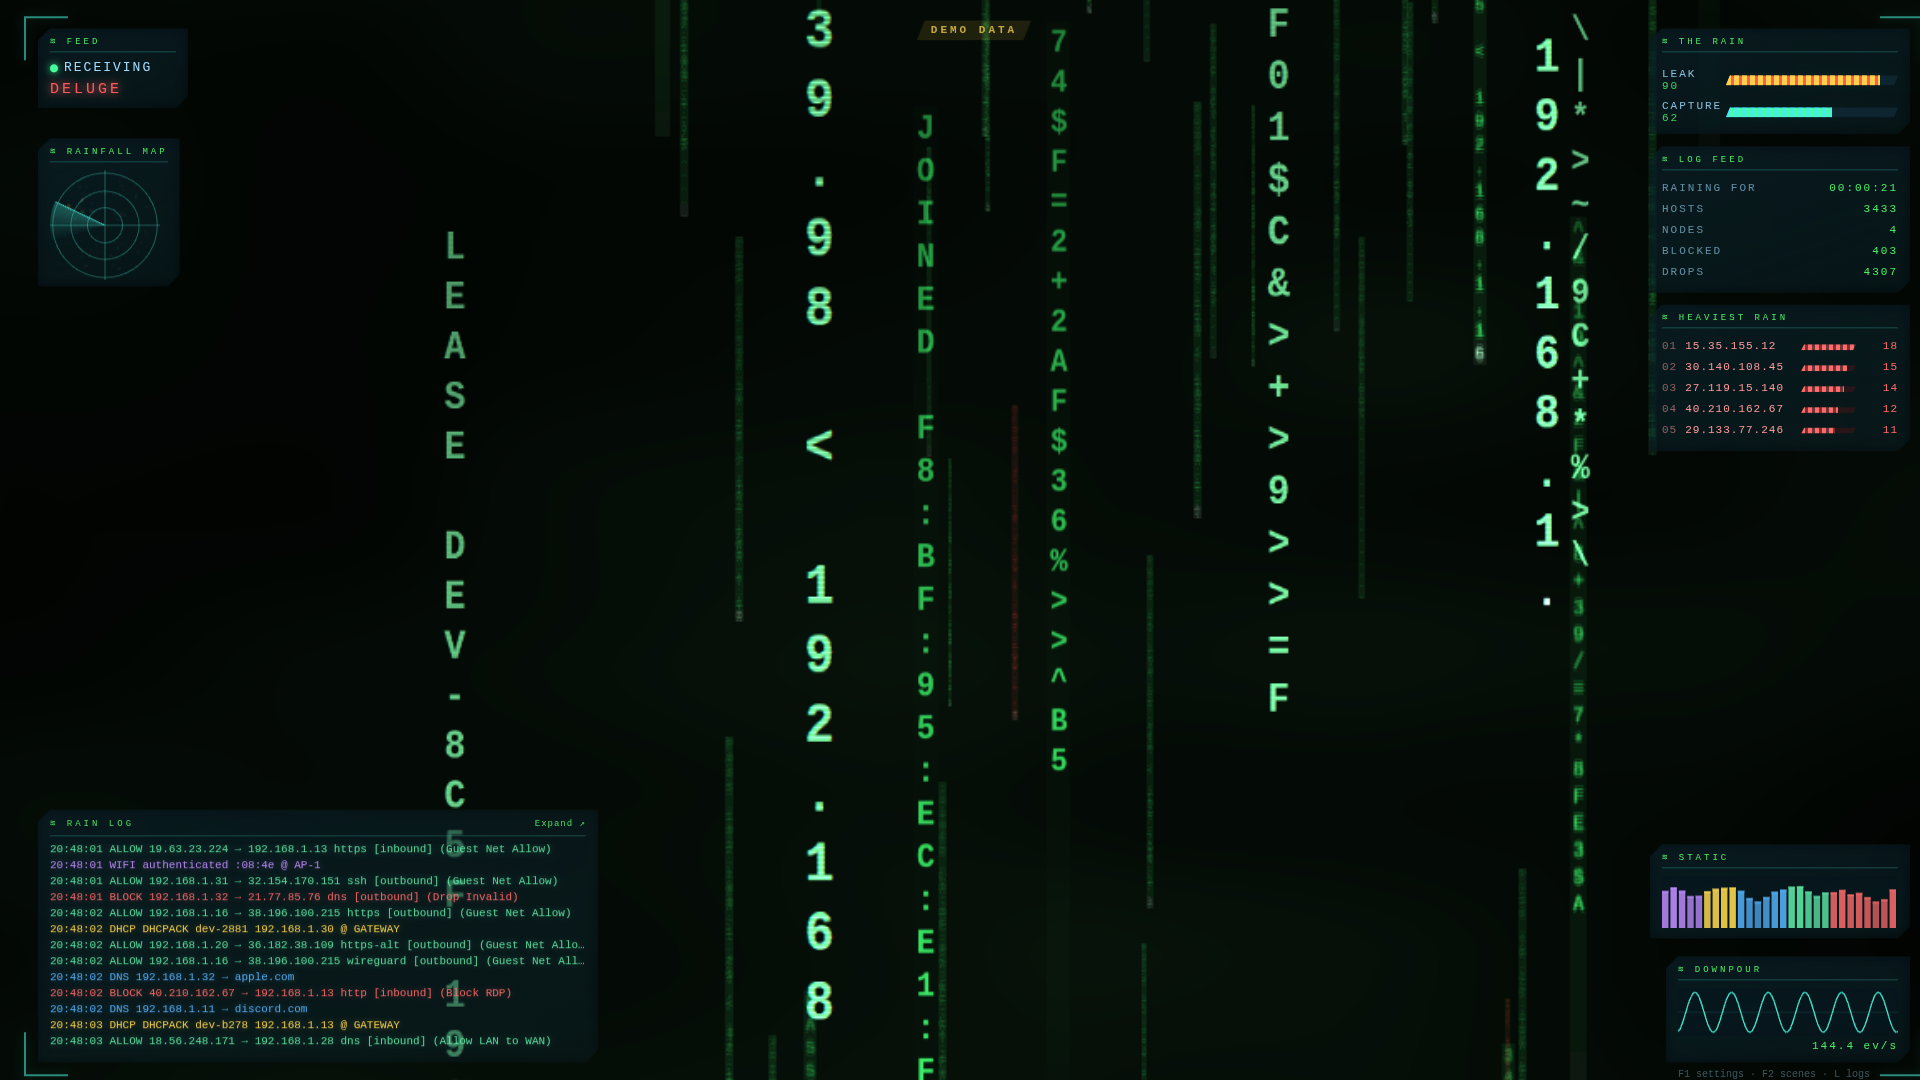
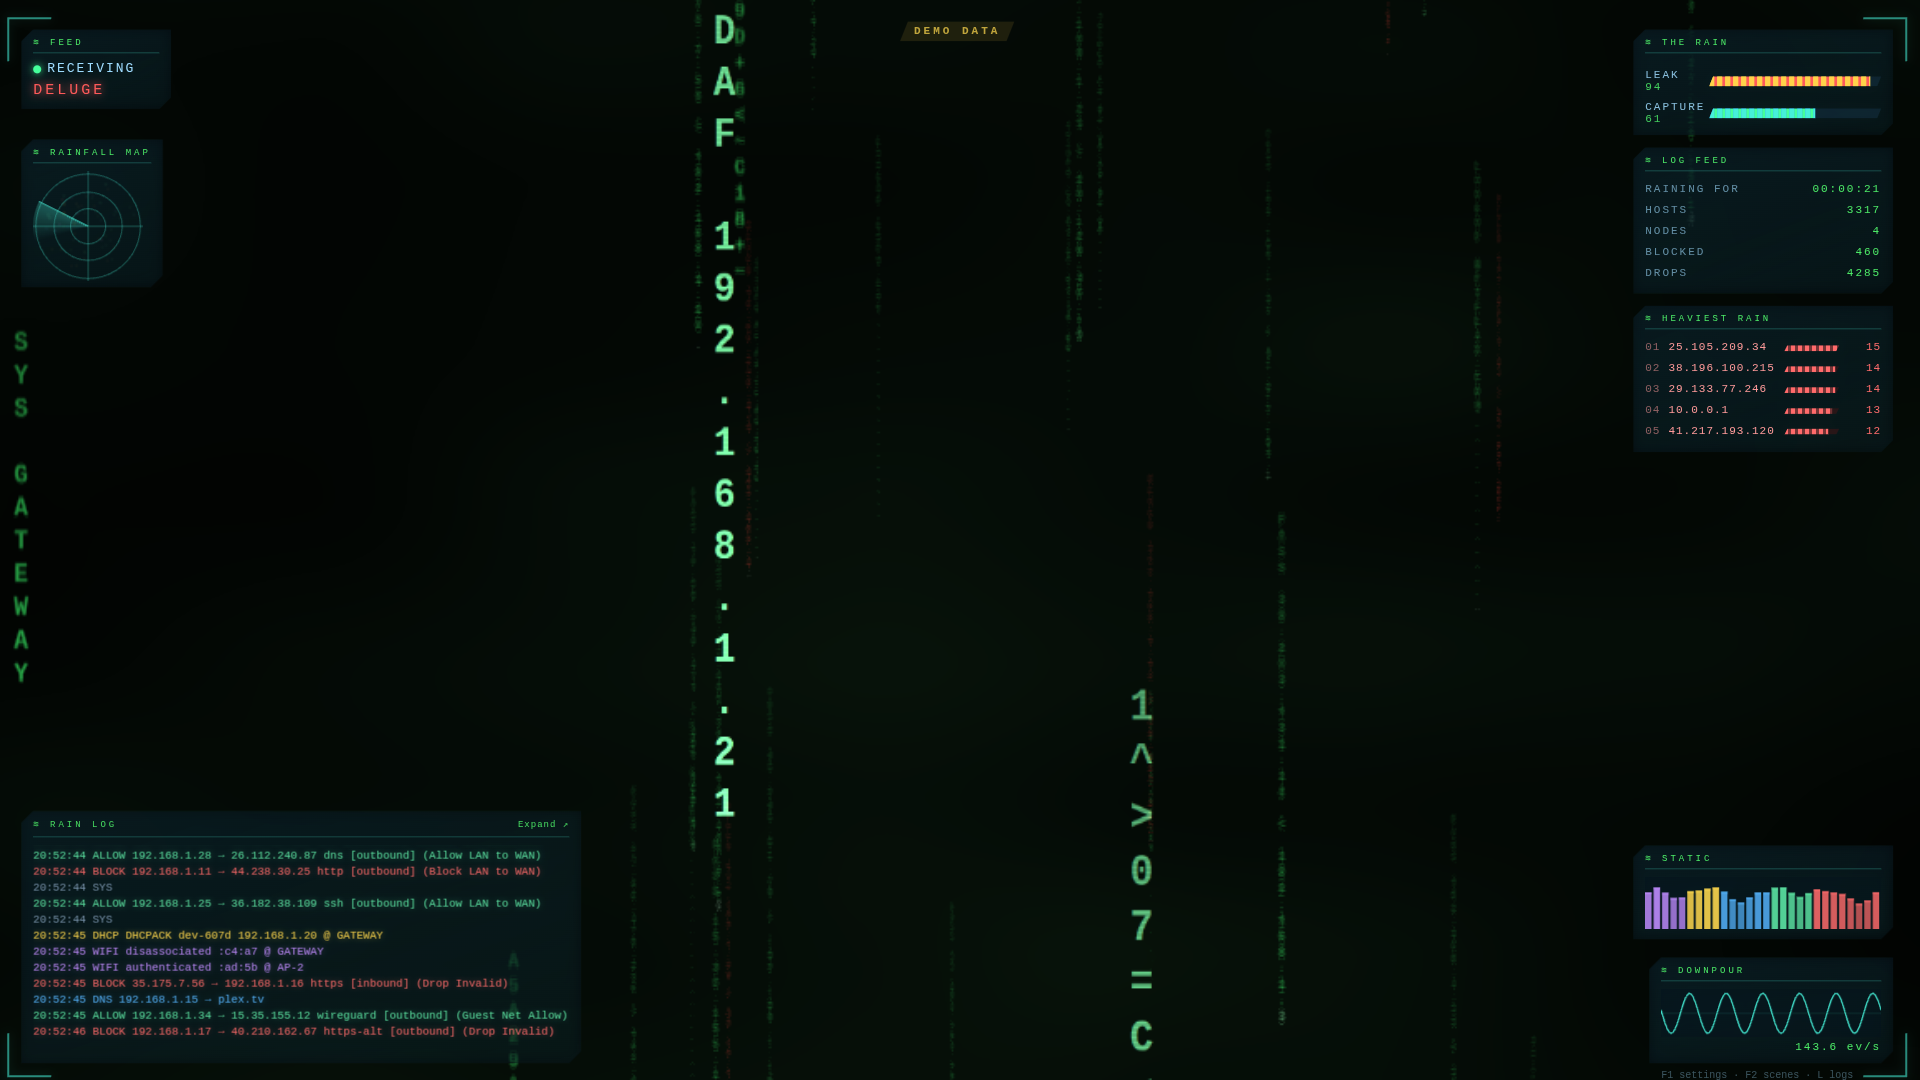
the rain: drop the per-column glow strip
each far column was bleeding its own vertical glow strip (the old
'haze' term), which now that the background has real fog just made
every distant log line look like it had a fog blob around it. the
glyph blur stays - that's atmospheric perspective and reads correctly
- but the per-line glow is gone

diff --git a/web/src/themes/rain/shader.ts b/web/src/themes/rain/shader.ts
@@ -225,9 +225,7 @@ void main() {
         + texture(uAtlas, (ac + f + vec2(0.0, o.y)) / vec2(16.0, 6.0)).r
         + texture(uAtlas, (ac + f - vec2(0.0, o.y)) / vec2(16.0, 6.0)).r) * 0.2;
     }
-    // far columns also bleed a faint glow strip: rain seen through haze
-    float haze = blur * 1.2;
-    if (a < 0.02 && haze < 0.01) continue;
+    if (a < 0.02) continue;
     float lit = 1.0 - 0.55 * (d / float(LEN));
     float depth = mix(1.0, 0.3, clamp((z - 0.3) / 3.5, 0.0, 1.0));
     float fog = mix(1.0, depth, uFog);
@@ -252,7 +250,7 @@ void main() {
       float flick = 1.0 - 0.05 * crt * sin(uTime * 37.0);
       col += rgb * lit2 * scan * flick * (1.0 + 0.35 * crt);
     } else {
-      col += tint * (a * lit2 + haze * fog * near);
+      col += tint * a * lit2;
     }
   }
   finalColor = vec4(col, 1.0);
